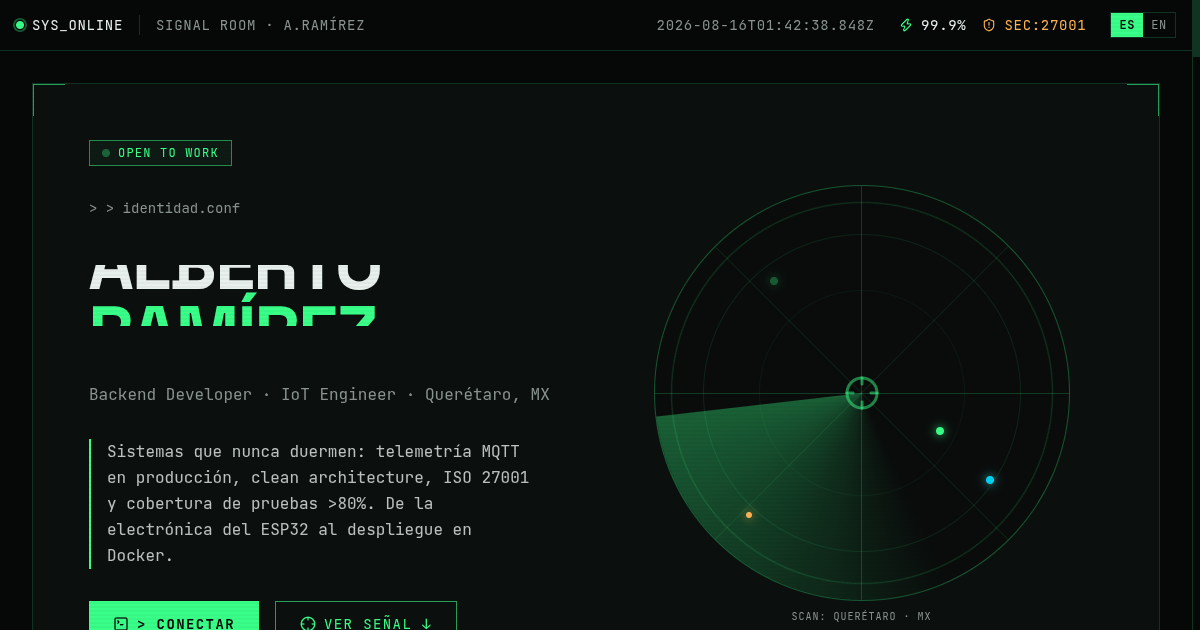
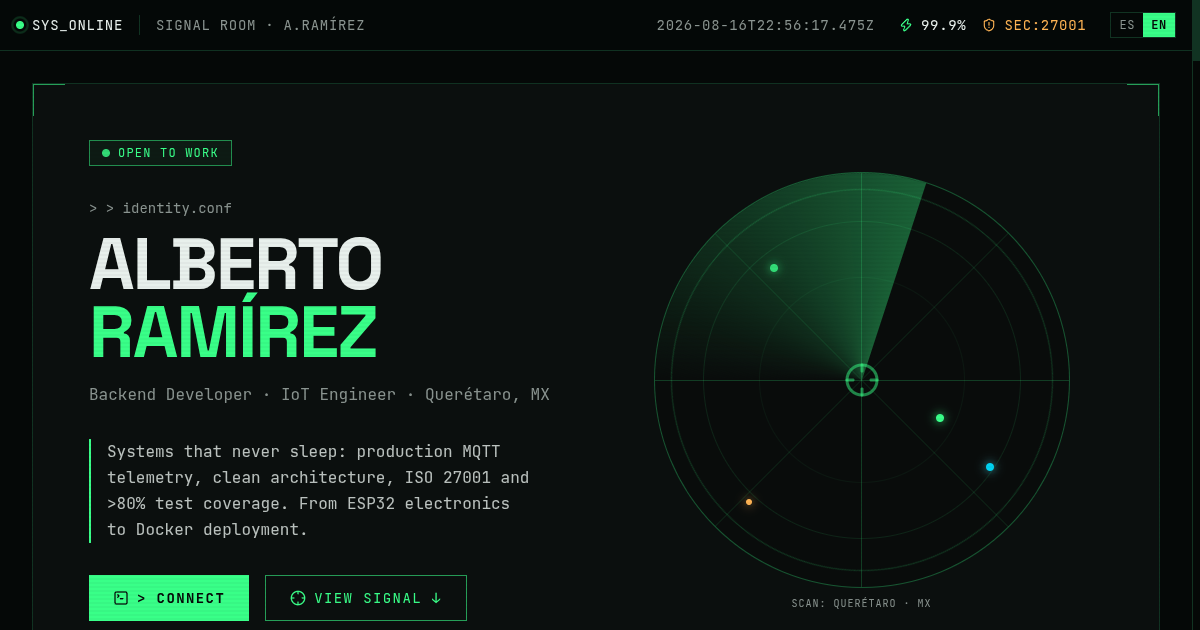
feat: actualizar portfolio (stack, proyectos, experiencia, contact responsive, og-image)
- Quitar FastAPI, LoRaWAN, shadcn/ui, scikit-learn, Gemini, Groq, Kotlin del stack
- Proyectos: quitar Roblox Factory, 85dias, Croquetero, Estudio 43; agregar GeoCESAR (en progreso)
- Experiencia: Fitness Gym concluido (Jun 2026), agregar CEQ (May 2026 - presente)
- Linkore: actualizar a empresa de software/IoT/marketing + link a linkoresolutions.com
- Contact: responsive en mobile (flex-wrap + break-all)
- og-image: regenerado con el hero renderizado completo

diff --git a/src/i18n.ts b/src/i18n.ts
@@ -60,8 +60,7 @@ const es = {
         "Node.js",
         "Express",
         "Spring Boot",
-        "FastAPI",
-        "Clean Architecture",
+                "Clean Architecture",
       ],
     },
     {
@@ -81,8 +80,7 @@ const es = {
       tech: [
         "MQTT",
         "ESP32",
-        "LoRaWAN",
-        "MIOTY",
+                "MIOTY",
         "Arduino",
         "Raspberry Pi",
         "OTA",
@@ -96,8 +94,7 @@ const es = {
         "Angular 20",
         "React Native",
         "Tailwind v4",
-        "shadcn/ui",
-      ],
+              ],
     },
     {
       cat: "DATABASES",
@@ -108,12 +105,9 @@ const es = {
       tech: [
         "TensorFlow",
         "Keras",
-        "scikit-learn",
-        "LSTM / CNN",
+                "LSTM / CNN",
         "Pandas",
-        "Gemini",
-        "Groq",
-      ],
+                      ],
     },
     {
       cat: "LANGUAGES",
@@ -124,8 +118,7 @@ const es = {
         "SQL",
         "Java",
         "Luau",
-        "Kotlin",
-      ],
+              ],
     },
   ],
   projects: [
@@ -144,14 +137,6 @@ const es = {
       desc: "Marketplace privado Triple Hélice: empresas publican ofertas, demandan insumos y reciben matches. 565+ tests, mutación, contratos Pact y k6.",
       stack: ["NestJS", "React 19", "PostgreSQL", "Redis"],
       metric: "565+ tests · CI/CD",
-    },
-    {
-      name: "Estudio 43",
-      domain: "Enterprise · SaaS",
-      role: "Scrum Master · 11 microservicios",
-      desc: "SaaS de gestión para clínica de belleza: citas, inventario, ventas y reportes sobre 11 microservicios Spring con gateway y SSO.",
-      stack: ["Spring Boot", "React", "PostgreSQL", "Flyway"],
-      metric: "11 micros · 58 tests + 12 E2E",
     },
     {
       name: "Fitness Gym",
@@ -174,47 +159,43 @@ const es = {
       domain: "AI · Salud",
       role: "Backend · Hackathon Troyano",
       desc: "Telemedicina multi-agente por voz/WhatsApp para zonas rurales: triage remoto con dos LLMs en pipeline y wearable GPS de prueba de concepto.",
-      stack: ["FastAPI", "Gemini", "Groq", "ESP32"],
+      stack: ["Node.js", "ESP32", "WhatsApp"],
       metric: "2 LLMs · <1.5s latencia",
     },
     {
+      name: "GeoCESAR",
+      domain: "IoT · Emergencias",
+      role: "Full Stack · Founder",
+      desc: "Plataforma unificada de respuesta a emergencias para la Sierra Queretana. Integra pulseras MIOTY, sensores ambientales y datos externos en un centro de mando (SOC). Propuesta IEEE Response Quest 2026.",
+      stack: ["JHipster", "Spring Boot 3", "React SOC", "Flutter", "PostGIS"],
+      metric: "IEEE Response Quest 2026 · en progreso",
+    },
+
+    {
       name: "Linkore Solutions",
-      domain: "Web · Agencia",
-      role: "Founder · Full Stack",
-      desc: "Agencia de webs locales + Meta Ads con pipeline de 9 fases. Clientes: ISMI, Barbacoa San Juanita, Chihuahua Mark y sector inmobiliario.",
-      stack: ["Next.js", "Tailwind", "Framer Motion"],
+      domain: "Empresa · Software, IoT & Marketing",
+      role: "Founder · Proyecto personal",
+      desc: "Mi proyecto personal de empresa desarrolladora de software, IoT y marketing. Pipeline de 9 fases con clientes como ISMI, Barbacoa San Juanita, Chihuahua Mark y el sector inmobiliario.",
+      stack: ["Next.js", "Tailwind", "Framer Motion", "Meta Ads"],
       metric: "9 fases · 4 clientes",
-    },
-    {
-      name: "Roblox Factory",
-      domain: "AI · Agentes",
-      role: "Orquestador · opencode",
-      desc: "Fábrica de agentes que opera una empresa simulada de 21 roles creando juegos Roblox 24/7, con revisión en capas y escalado a Telegram.",
-      stack: ["Python", "opencode", "DeepSeek", "SSE"],
-      metric: "21 roles · 18/18 self-test",
-    },
-    {
-      name: "85dias",
-      domain: "Personal · Dev",
-      role: "Full Stack · solo para Nicole",
-      desc: "Video-diario de los 86 días en Alemania: prompts diarios generados por IA, grabación MP4 con marca de agua y cuenta regresiva.",
-      stack: ["Next.js", "Prisma", "NextAuth", "Cloudinary"],
-      metric: "86 días · 1 historia",
-    },
-    {
-      name: "Croquetero",
-      domain: "IoT · Impacto social",
-      role: "Embedded · Hardware",
-      desc: "Dispensador automático de croquetas que acepta monedas mexicanas ($1–$10) como donación para los perros de la comunidad universitaria.",
-      stack: ["Arduino", "C++", "Stepper", "Web QR"],
-      metric: "Donaciones · monedas MXN",
+      url: "https://www.linkoresolutions.com/",
     },
   ],
   experience: [
     {
+      role: "Full Stack Developer",
+      company: "CEQ · Clúster Energético de Querétaro",
+      period: "May 2026 — Presente",
+      bullets: [
+        "Marketplace/directorio B2B privado para los afiliados del clúster (Triple Hélice).",
+        "Motor de búsqueda híbrido con Elasticsearch, chat encriptado y trazabilidad de vinculaciones.",
+        "Bolsa de trabajo pública y reportes trimestrales de actividad.",
+      ],
+    },
+    {
       role: "Full Stack Developer — Team Lead",
       company: "Fitness Gym",
-      period: "Ene 2026 — Presente",
+      period: "Ene 2026 — Jun 2026",
       bullets: [
         "Sistema integral de gestión: membresías, acceso QR y reportes de ingresos diarios.",
         "Integración continua con unit testing y métricas de calidad >80% coverage.",
@@ -353,8 +334,7 @@ const en: typeof es = {
         "Node.js",
         "Express",
         "Spring Boot",
-        "FastAPI",
-        "Clean Architecture",
+                "Clean Architecture",
       ],
     },
     {
@@ -374,8 +354,7 @@ const en: typeof es = {
       tech: [
         "MQTT",
         "ESP32",
-        "LoRaWAN",
-        "MIOTY",
+                "MIOTY",
         "Arduino",
         "Raspberry Pi",
         "OTA",
@@ -389,8 +368,7 @@ const en: typeof es = {
         "Angular 20",
         "React Native",
         "Tailwind v4",
-        "shadcn/ui",
-      ],
+              ],
     },
     {
       cat: "DATABASES",
@@ -401,12 +379,9 @@ const en: typeof es = {
       tech: [
         "TensorFlow",
         "Keras",
-        "scikit-learn",
-        "LSTM / CNN",
+                "LSTM / CNN",
         "Pandas",
-        "Gemini",
-        "Groq",
-      ],
+                      ],
     },
     {
       cat: "LANGUAGES",
@@ -417,8 +392,7 @@ const en: typeof es = {
         "SQL",
         "Java",
         "Luau",
-        "Kotlin",
-      ],
+              ],
     },
   ],
   projects: [
@@ -437,14 +411,6 @@ const en: typeof es = {
       desc: "Private Triple Helix marketplace: companies publish offers, source supplies and get matched. 565+ tests, mutation testing, Pact contracts and k6.",
       stack: ["NestJS", "React 19", "PostgreSQL", "Redis"],
       metric: "565+ tests · CI/CD",
-    },
-    {
-      name: "Estudio 43",
-      domain: "Enterprise · SaaS",
-      role: "Scrum Master · 11 microservices",
-      desc: "Beauty clinic management SaaS: appointments, inventory, sales and reports over 11 Spring microservices with gateway and SSO.",
-      stack: ["Spring Boot", "React", "PostgreSQL", "Flyway"],
-      metric: "11 micros · 58 tests + 12 E2E",
     },
     {
       name: "Fitness Gym",
@@ -467,47 +433,43 @@ const en: typeof es = {
       domain: "AI · Health",
       role: "Backend · Troyano Hackathon",
       desc: "Multi-agent telemedicine by voice/WhatsApp for rural areas: remote triage with two LLMs in pipeline and GPS wearable PoC.",
-      stack: ["FastAPI", "Gemini", "Groq", "ESP32"],
+      stack: ["Node.js", "ESP32", "WhatsApp"],
       metric: "2 LLMs · <1.5s latency",
     },
     {
+      name: "GeoCESAR",
+      domain: "IoT · Emergency",
+      role: "Full Stack · Founder",
+      desc: "Unified emergency response platform for the Sierra Queretana. Integrates MIOTY bracelets, environmental sensors and external data into a command center (SOC). IEEE Response Quest 2026 proposal.",
+      stack: ["JHipster", "Spring Boot 3", "React SOC", "Flutter", "PostGIS"],
+      metric: "IEEE Response Quest 2026 · in progress",
+    },
+
+    {
       name: "Linkore Solutions",
-      domain: "Web · Agency",
-      role: "Founder · Full Stack",
-      desc: "Local web + Meta Ads agency with a 9-phase pipeline. Clients: ISMI, Barbacoa San Juanita, Chihuahua Mark and real estate.",
-      stack: ["Next.js", "Tailwind", "Framer Motion"],
+      domain: "Company · Software, IoT & Marketing",
+      role: "Founder · Personal project",
+      desc: "My personal company building software, IoT and marketing solutions. 9-phase pipeline with clients like ISMI, Barbacoa San Juanita, Chihuahua Mark and real estate.",
+      stack: ["Next.js", "Tailwind", "Framer Motion", "Meta Ads"],
       metric: "9 phases · 4 clients",
-    },
-    {
-      name: "Roblox Factory",
-      domain: "AI · Agents",
-      role: "Orchestrator · opencode",
-      desc: "Agent factory operating a simulated company of 21 roles creating Roblox games 24/7, with layered review and Telegram escalation.",
-      stack: ["Python", "opencode", "DeepSeek", "SSE"],
-      metric: "21 roles · 18/18 self-test",
-    },
-    {
-      name: "85dias",
-      domain: "Personal · Dev",
-      role: "Full Stack · just for Nicole",
-      desc: "Video diary of my 86 days in Germany: AI-generated daily prompts, MP4 recording with burned-in watermark and countdown.",
-      stack: ["Next.js", "Prisma", "NextAuth", "Cloudinary"],
-      metric: "86 days · 1 story",
-    },
-    {
-      name: "Croquetero",
-      domain: "IoT · Social impact",
-      role: "Embedded · Hardware",
-      desc: "Automatic dog-food dispenser that accepts Mexican coins ($1–$10) as donations for the university community dogs.",
-      stack: ["Arduino", "C++", "Stepper", "Web QR"],
-      metric: "Donations · MXN coins",
+      url: "https://www.linkoresolutions.com/",
     },
   ],
   experience: [
     {
+      role: "Full Stack Developer",
+      company: "CEQ · Querétaro Energy Cluster",
+      period: "May 2026 — Present",
+      bullets: [
+        "Private B2B marketplace/directory for cluster members (Triple Helix).",
+        "Hybrid search engine with Elasticsearch, encrypted chat and link traceability.",
+        "Public job board and quarterly activity reports.",
+      ],
+    },
+    {
       role: "Full Stack Developer — Team Lead",
       company: "Fitness Gym",
-      period: "Jan 2026 — Present",
+      period: "Jan 2026 — Jun 2026",
       bullets: [
         "Complete management system: memberships, QR access and daily revenue reports.",
         "Continuous integration with unit testing and >80% code coverage.",

diff --git a/src/App.tsx b/src/App.tsx
@@ -30,11 +30,8 @@ const PROJECT_STATUS: Array<"prod" | "dev"> = [
   "dev",
   "prod",
   "prod",
+  "dev",
   "prod",
-  "prod",
-  "dev",
-  "dev",
-  "dev",
 ]
 const CONTACT_ICONS = [Mail, Code2, Globe, MapPin]
 const CONTACT_HREFS: Array<string | undefined> = [
@@ -329,9 +326,21 @@ function Projects({ t }: { t: Translations }) {
                 </span>
               ))}
             </div>
-            <div className="mt-5 pt-4 border-t border-border/60 flex items-center gap-2 font-mono text-xs">
-              <Zap size={13} className="text-accent" />
-              <span className="text-primary">{p.metric}</span>
+            <div className="mt-5 pt-4 border-t border-border/60 flex items-center justify-between gap-2 font-mono text-xs">
+              <span className="flex items-center gap-2">
+                <Zap size={13} className="text-accent" />
+                <span className="text-primary">{p.metric}</span>
+              </span>
+              {p.url ? (
+                <a
+                  href={p.url}
+                  target="_blank"
+                  rel="noreferrer"
+                  className="inline-flex items-center gap-1 border border-primary/40 text-primary px-2 py-1 uppercase tracking-wider hover:bg-primary hover:text-primary-foreground transition-colors"
+                >
+                  <Globe size={12} /> visitar sitio ↗
+                </a>
+              ) : null}
             </div>
           </div>
         ))}
@@ -555,10 +564,10 @@ function Contact({ t }: { t: Translations }) {
               return (
                 <div
                   key={labels[i]}
-                  className="flex items-center gap-3 text-foreground/85"
+                  className="flex flex-wrap items-center gap-x-3 gap-y-1 text-foreground/85"
                 >
-                  <Icon size={13} className="text-primary/70" />
-                  <span className="text-muted-foreground text-xs w-12">
+                  <Icon size={13} className="text-primary/70 shrink-0" />
+                  <span className="text-muted-foreground text-xs w-12 shrink-0">
                     {labels[i]}
                   </span>
                   {href ? (
@@ -566,12 +575,12 @@ function Contact({ t }: { t: Translations }) {
                       href={href}
                       target={href.startsWith("http") ? "_blank" : undefined}
                       rel="noreferrer"
-                      className="text-primary hover:text-accent transition-colors underline decoration-primary/30 underline-offset-4"
+                      className="text-primary hover:text-accent transition-colors underline decoration-primary/30 underline-offset-4 break-all"
                     >
                       {CONTACT_VALUES[i]}
                     </a>
                   ) : (
-                    <span>{CONTACT_VALUES[i]}</span>
+                    <span className="break-all">{CONTACT_VALUES[i]}</span>
                   )}
                 </div>
               )

diff --git a/index.html b/index.html
@@ -19,7 +19,7 @@
     <meta property="og:title" content="Alberto Ramírez — Backend & IoT Developer" />
     <meta
       property="og:description"
-      content="Centro de control SIGNAL ROOM: telemetría IoT, clean architecture y seguridad. NestJS · MQTT · Docker · ESP32 · LoRaWAN · MIOTY."
+      content="Centro de control SIGNAL ROOM: telemetría IoT, clean architecture y seguridad. NestJS · MQTT · Docker · ESP32 · MIOTY."
     />
     <meta property="og:url" content="https://mario-ramirez.dev/" />
     <meta property="og:locale" content="es_MX" />
@@ -39,7 +39,7 @@
     <meta name="twitter:title" content="Alberto Ramírez — Backend & IoT Developer" />
     <meta
       name="twitter:description"
-      content="Backend Developer e Ingeniero IoT en Querétaro. NestJS, MQTT, Docker, ESP32, LoRaWAN."
+      content="Backend Developer e Ingeniero IoT en Querétaro. NestJS, MQTT, Docker, ESP32, ."
     />
     <meta name="twitter:image" content="https://mario-ramirez.dev/og-image.png" />
     <meta
@@ -94,7 +94,7 @@
         "knowsLanguage": ["es", "en"],
         "knowsAbout": [
           "NestJS", "Node.js", "TypeScript", "Docker", "MQTT", "ESP32",
-          "LoRaWAN", "MIOTY", "PostgreSQL", "ISO/IEC 27001"
+          "MIOTY", "PostgreSQL", "ISO/IEC 27001"
         ]
       }
     </script>
@@ -104,7 +104,7 @@
     <noscript>
       <div style="font-family: monospace; background: #050807; color: #39ff88; padding: 2rem;">
         Alberto Ramírez — Backend Developer &amp; IoT Engineer, Querétaro, México.
-        NestJS · Node.js · TypeScript · Docker · MQTT · ESP32 · LoRaWAN · MIOTY · PostgreSQL · ISO/IEC 27001.
+        NestJS · Node.js · TypeScript · Docker · MQTT · ESP32 · MIOTY · PostgreSQL · ISO/IEC 27001.
         GitHub: github.com/rmMarioAlberto · Email: rmmarioalberto08@gmail.com
       </div>
     </noscript>
